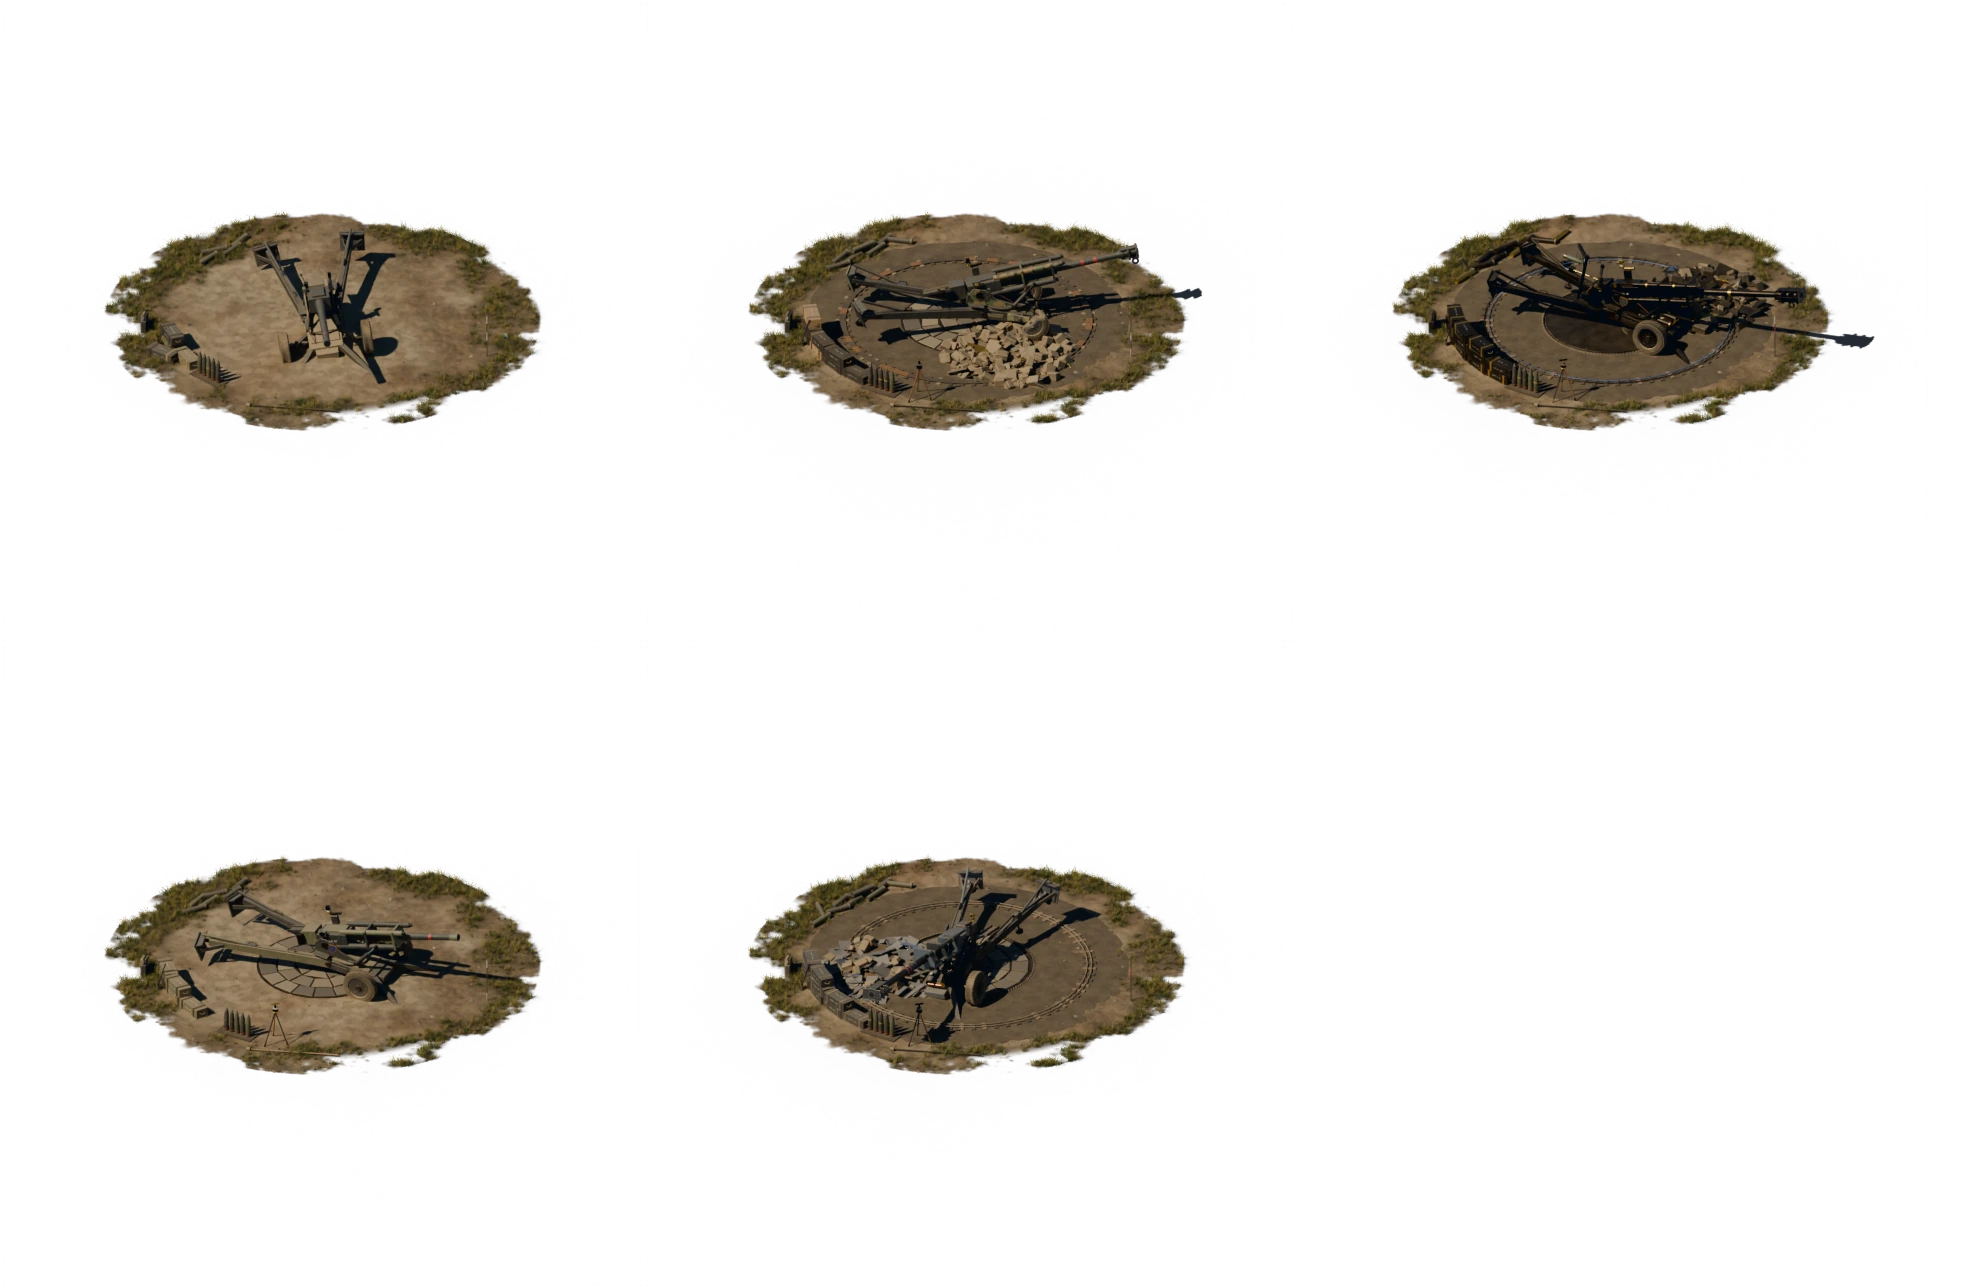
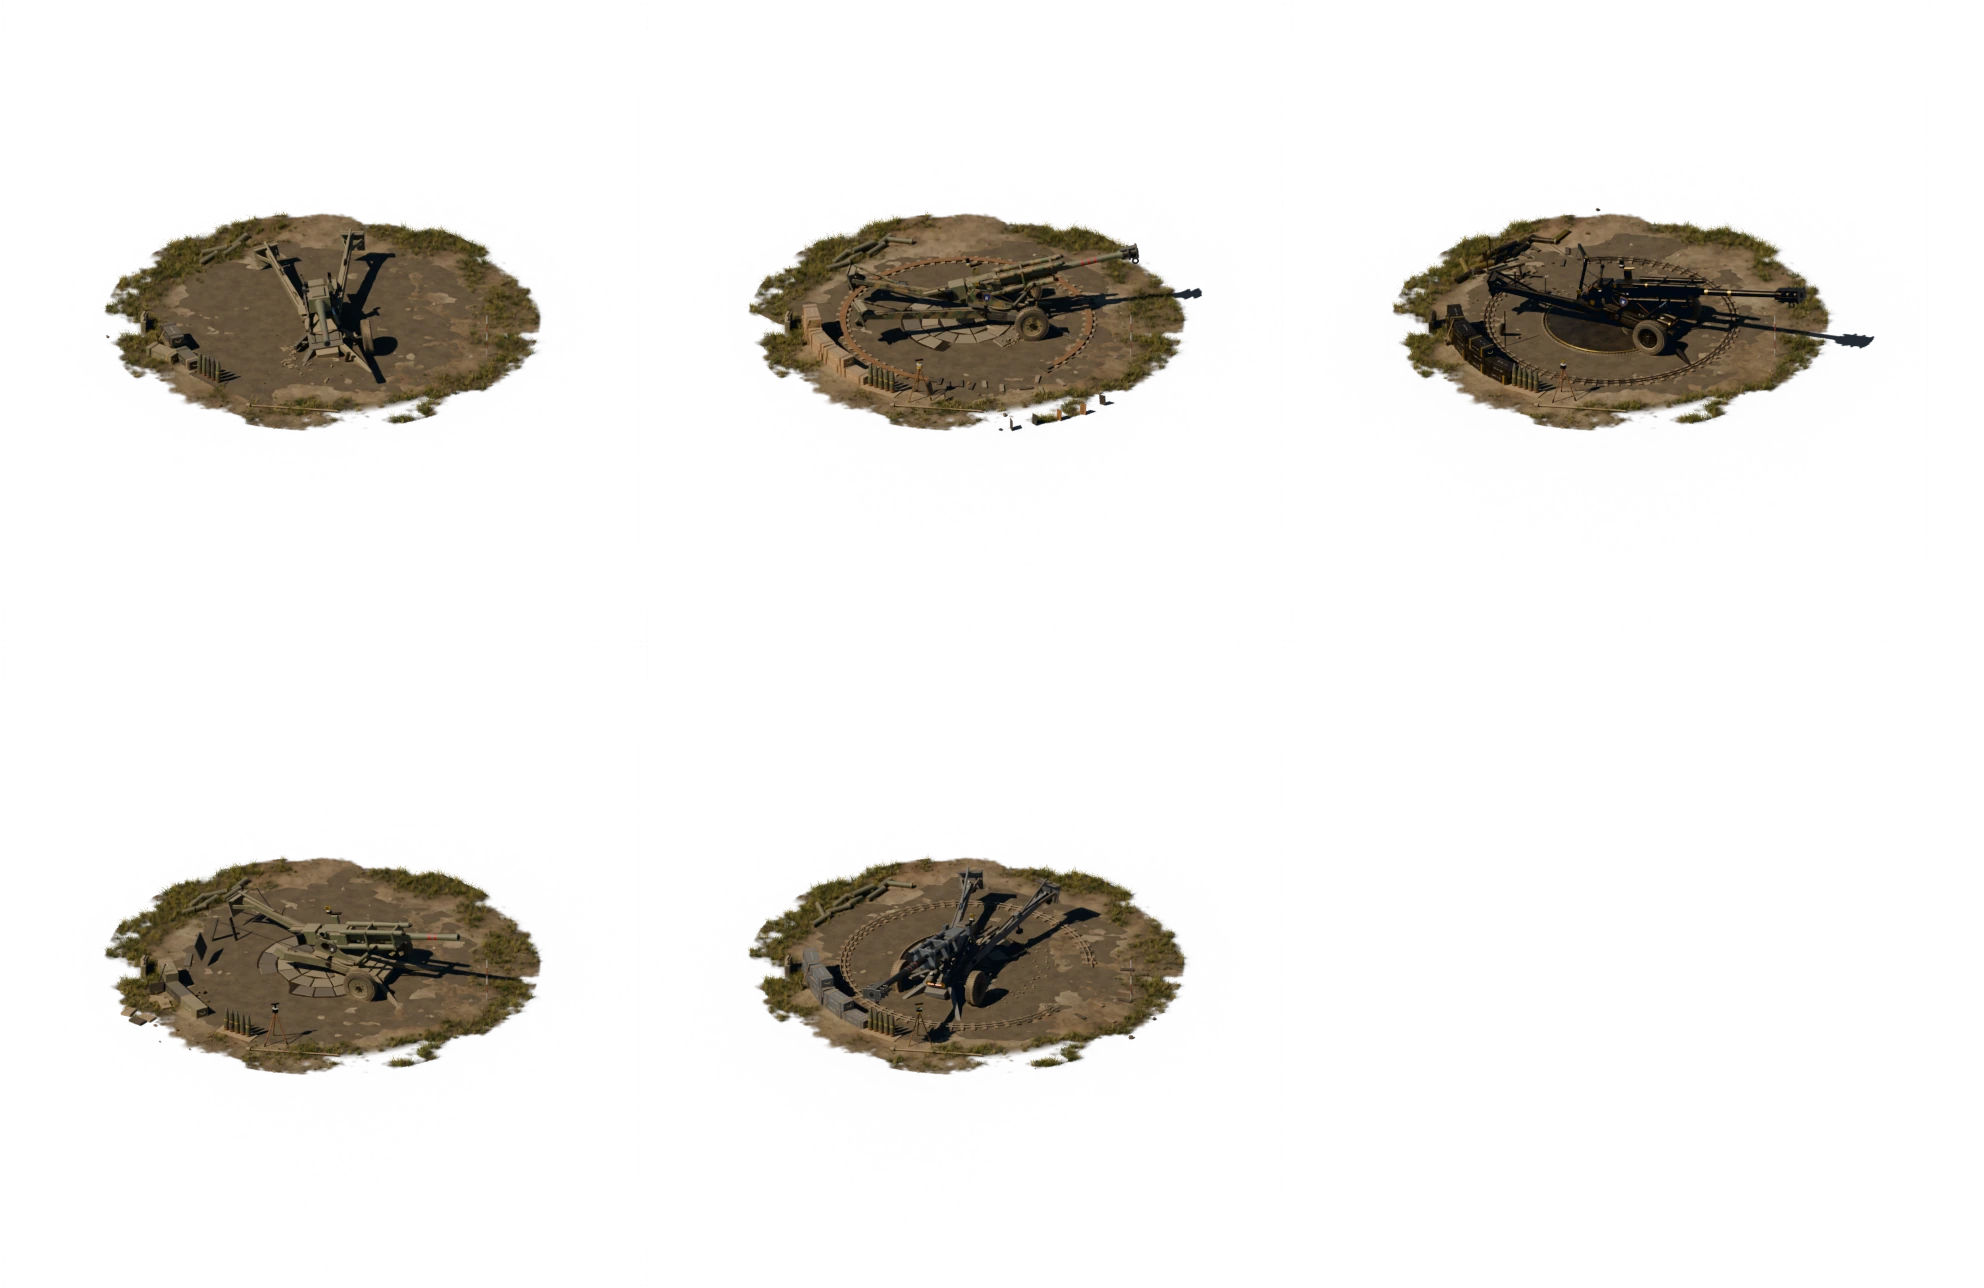
art: realistic damage (physics debris, joint-wise breaks, roof collapse) for all buildings and gun wrecks; treasury coins dropped with physics
Claude-Session: https://claude.ai/code/session_01RjoRvJnVjVFTKFCatVx85i

diff --git a/art/SOP.md b/art/SOP.md
@@ -451,14 +451,14 @@ Start every new object by copying the closest existing model and keeping its str
 
 Built so far: `hq`, `lab`, `muster` (Военно свикване; its mark is a military horn on a post or tower at the +X side, from an ox horn to a crown of gilded fanfares), `arsenal` (two crossed barrels over the gate, a lifting rig in the yard), `treasury` (a big open trough heaped with gold coins, the mound growing with the level; the mound is a displaced grid plus hundreds of loose coins in `gold_coins`, a dust-free gold). Give every new building one mark of this kind that reads at game zoom and grows with the level, so the player knows what it is for without a label.
 
-**Damage states (buildings and guns)** — `strelite_art/damage.py`, applied after `build()` and before `stamp()`; never model a damaged version by hand.
+**Damage states (buildings and guns)** — `strelite_art/damage.py`, applied after `build()` and before `stamp()`; never model a damaged version by hand, and never lay debris in a heap by formula (it reads as Lego).
 
-- `damaged` (building below half health): a bowl-shaped breach at the front-right corner of the main body (found from the `core` objects, so name the inner fill of every building `core`). Parts above the bowl are cut with real geometry and capped, the inner fill is sliced and turned to `ash`, wood near the hole is charred (`timber_charred`), the removed volume lies below the hole as debris of the same materials.
-- `rubble` (destroyed building): everything cut to a ragged stump 0.2 to 1.3 m high, inner fills cut level, a mound of the removed materials inside, ash bed under it.
-- `wreck` (destroyed gun): the turret knocked askew (`tilt`), one side torn away by a blast near the edge of the footprint, paint scorched to `paint_soot`, wood charred, bright metals tarnished, cloth burnt, a scorched ash disc under it.
-- `occupied` (HQ taken by the Iron Concord): `damage.occupy()` then `damaged`: defender emblems become the cog-and-spear, blue paint turns oxblood, a long oxblood banner on the front wall, faction pennants on the highest points.
-- Render: `render_buildings.py --states normal damaged rubble occupied` (files `L<n>_<state>.png`, `--pack` adds `buildings.<id>.states = {sheet: buildings/<id>_states, damaged: [...], rubble: [...], occupied: [...]}`); `render_wrecks.py` (35 frames, `towers/<id>_wreck`, `towers.<id>.levels[].states.wreck = {sheet, frame}`). A damaged gun keeps its normal frames; the game adds the looping `fire_burn` and `smoke_plume` effects. All of it is about 25 minutes locally.
-- Review sheet: one level of every building in each state plus all gun wrecks side by side; check that the breach is on a face the camera sees and that the wreck still shows which gun it was.
+- The destroyed region is a lumpy blob (`damaged`: the upper front-right corner, the roof above it falls in so light reaches the room; `wreck`: a blast on one side of a gun) or a noisy height field (`rubble`: ragged stumps, one corner left higher). Pieces under 1.5 m (blocks, planks, shingles, panels, gun parts) come out whole when their centre is inside, so masonry breaks along its joints; bigger pieces are cut by the same shape with a boolean. Hidden layers (mortar, decks) are cut a little wider so they never show.
+- The pieces taken out are the debris: stone blocks split two or three times along random planes, planks and beams snap with slanted ends, plus gravel and broken rafters. Everything falls under Bullet rigid bodies (`_simulate`, with a short outward blast for `damaged` and `wreck`) onto a ragged dust bed, the floor and the remaining walls. The inner `core` is removed so the room shows through the breach.
+- Soot fades out from the hit (`stone_soot`, `timber_charred`, `paint_soot`). `occupied` = `damage.occupy()` then `damaged`.
+- A model with contents that must not be cut defines `damage_hook(scene, state, info, phase)`; the treasury rebuilds its gold and returns the coins, which fall with the debris.
+- Loose small things (coins) are always dropped with physics and settle on a low solid body, never laid on a surface or made as one flowing mesh.
+- Render: `render_buildings.py --states normal damaged rubble occupied`, `render_wrecks.py`; about 2.5 hours locally for everything (the treasury coins are the slow part).
 
 **Own units (allies)** — the player's units reuse an enemy model with the defenders' paint swapped in (`models/raiders.py`: 4BO green, `tunic_olive`, `cloth_blue`, defender emblem, blue pennant). Pack with `pack_enemies.py`; models in its `ALLIES` set go to the manifest key `allies`, not `enemies` (the art test checks every enemy id against the game).
 
